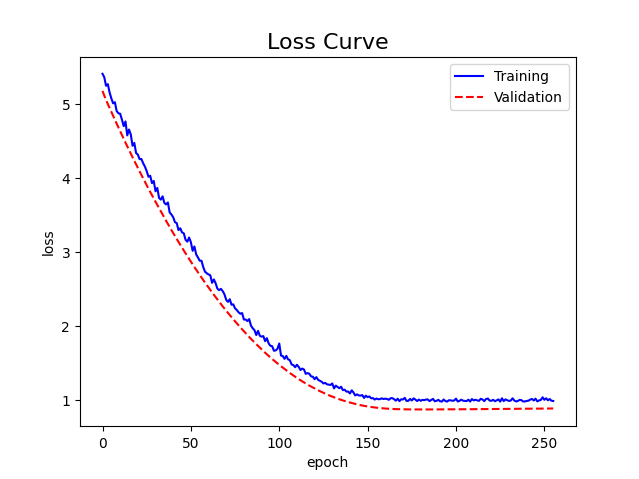
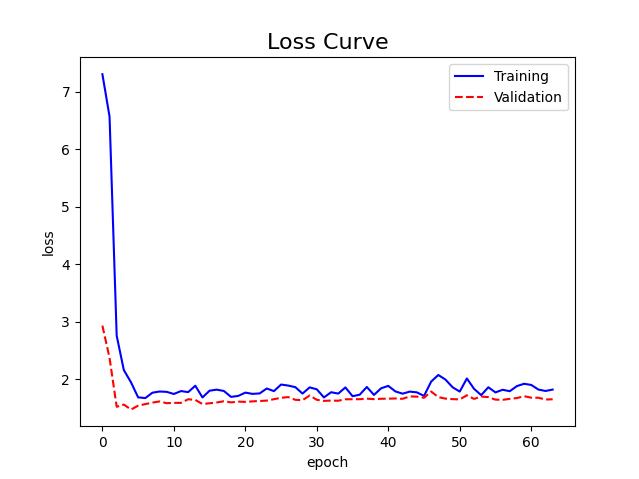
Final MPG tweaks

diff --git a/mlp.py b/mlp.py
@@ -83,13 +83,14 @@ class Relu(ActivationFunction):
 
 class Softmax(ActivationFunction):
     def forward(self, x: np.ndarray) -> np.ndarray:
-            exp_x = np.exp(x - np.max(x, axis=1, keepdims=True))
-            return exp_x / exp_x.sum()
+            exp_x = np.exp(x - np.max(x, axis=-1, keepdims=True))
+            return exp_x / np.sum(exp_x, axis=-1, keepdims=True)
 
     def derivative(self, x: np.ndarray) -> np.ndarray:
         Sx: np.ndarray = self.forward(x)
-        print("Sx shape: ", Sx.shape)
-        return np.diagflat(Sx) - np.dot(Sx, Sx.T)
+        diag = np.einsum("ij,jk->ik ", Sx, np.eye(Sx.shape[-1]))
+        outer = np.einsum("ij,ik->ik",Sx, Sx)
+        return diag - outer
 
 class Linear(ActivationFunction):
     def forward(self, x: np.ndarray) -> np.ndarray:
@@ -175,6 +176,7 @@ class Layer:
         self.z = np.dot(h, self.W) + self.b
         self.activations = self.activation_function.forward(self.z)
 
+        # Dropout implementation
         if training and self.dropout_rate > 0.0:
             self.dropout_mask = (np.random.rand(*self.activations.shape) > self.dropout_rate).astype(float)
             self.dropout_mask /= (1 - self.dropout_rate)
@@ -267,6 +269,7 @@ class MultilayerPerceptron:
             sq_grads_W = [np.zeros_like(layer.W) for layer in self.layers]
             sq_grads_b = [np.zeros_like(layer.b) for layer in self.layers]
 
+        # Training Loop
         for epoch in tqdm(range(epochs), desc='Training'):
             epoch_loss, n_train = 0.0, 0.0
             

diff --git a/train_mpg.py b/train_mpg.py
@@ -81,9 +81,7 @@ print(f"Samples in Validation: {len(X_val)}")
 print(f"Samples in Testing:    {len(X_test)}")
 
 layers = [
-    mlp.Layer(7, 128, mlp.Sigmoid()),
-    mlp.Layer(128, 256, mlp.Sigmoid()),
-    mlp.Layer(256, 64, mlp.Relu()),
+    mlp.Layer(7, 64, mlp.Sigmoid()),
     mlp.Layer(64, 1, mlp.Linear())
 ]
 
@@ -91,7 +89,7 @@ perceptron = mlp.MultilayerPerceptron(layers)
 
 training_loss, validation_loss = perceptron.train(X_train.to_numpy(), y_train.to_numpy(), 
                                                   X_val.to_numpy(), y_val.to_numpy(), mlp.SquaredError(), 
-                                                  learning_rate=0.00001, epochs=256, batch_size=16, rmsprop=True)
+                                                  learning_rate=0.001, epochs=64, batch_size=64)
 
 plt.plot(training_loss, color='b', label='Training')
 plt.plot(validation_loss, color='r',linestyle='dashed', label="Validation")
@@ -101,7 +99,7 @@ plt.xlabel("epoch")
 plt.legend()
 plt.show()
 
-pred_y = np.round(perceptron.forward(X_test.to_numpy()) * y_std + y_mean)
+pred_y = perceptron.forward(X_test.to_numpy()) * y_std + y_mean
 
 # Create DataFrame with feature values
 X_test_df = pd.DataFrame(X_test * X_std + X_mean, columns=X.columns)

diff --git a/train_mnist.py b/train_mnist.py
@@ -43,7 +43,6 @@ if __name__ == "__main__":
     # Load and preprocess the MNIST dataset
     train_x, train_y, val_x, val_y, test_x, test_y = download_mnist()
 
-    # Define the MLP model
     layers = [
         mlp.Layer(28 * 28, 512, mlp.Relu()),
         mlp.Layer(512, 256, mlp.Relu()),
@@ -61,7 +60,7 @@ if __name__ == "__main__":
         loss_func=mlp.SquaredError(),
         learning_rate=0.001,
         batch_size=32,
-        epochs=64,
+        epochs=32,
         rmsprop=True
     )
 

diff --git a/test_activation_functions.py b/test_activation_functions.py
@@ -20,7 +20,6 @@ def graph_activation_function(Activation_Function, function_name):
 graph_activation_function(mlp.Sigmoid(), "Sigmoid")
 graph_activation_function(mlp.Tanh(), "Tanh")
 graph_activation_function(mlp.Relu(), "Relu")
-graph_activation_function(mlp.Softmax(), "Softmax")
 graph_activation_function(mlp.Linear(), "Linear")
 graph_activation_function(mlp.Softplus(), "Softplus")
 graph_activation_function(mlp.Mish(), "Mish")
